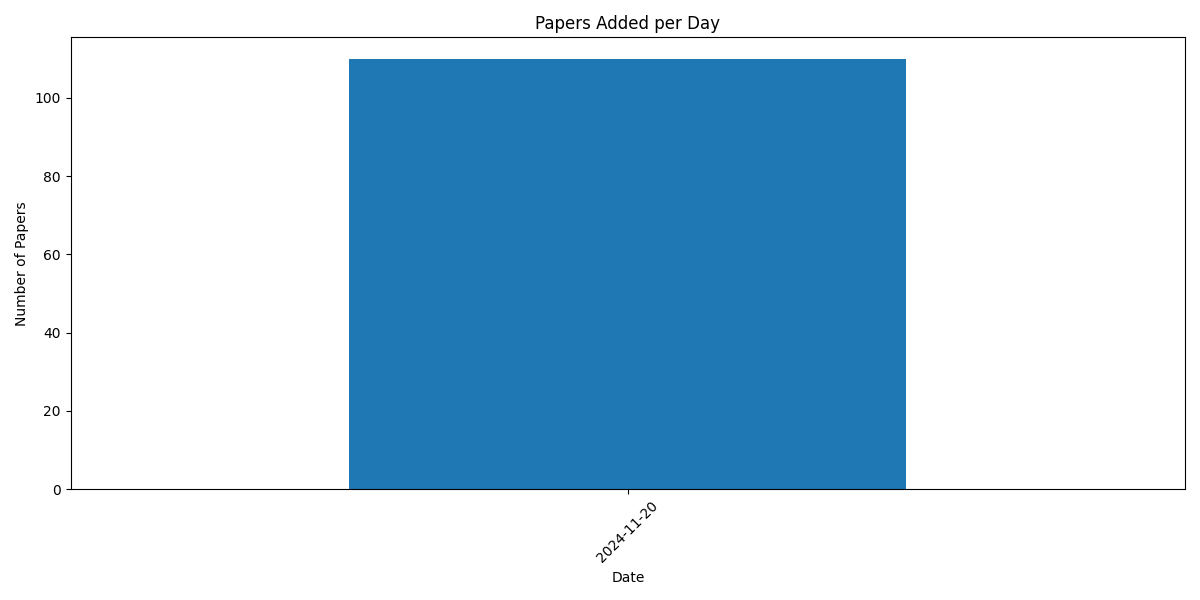
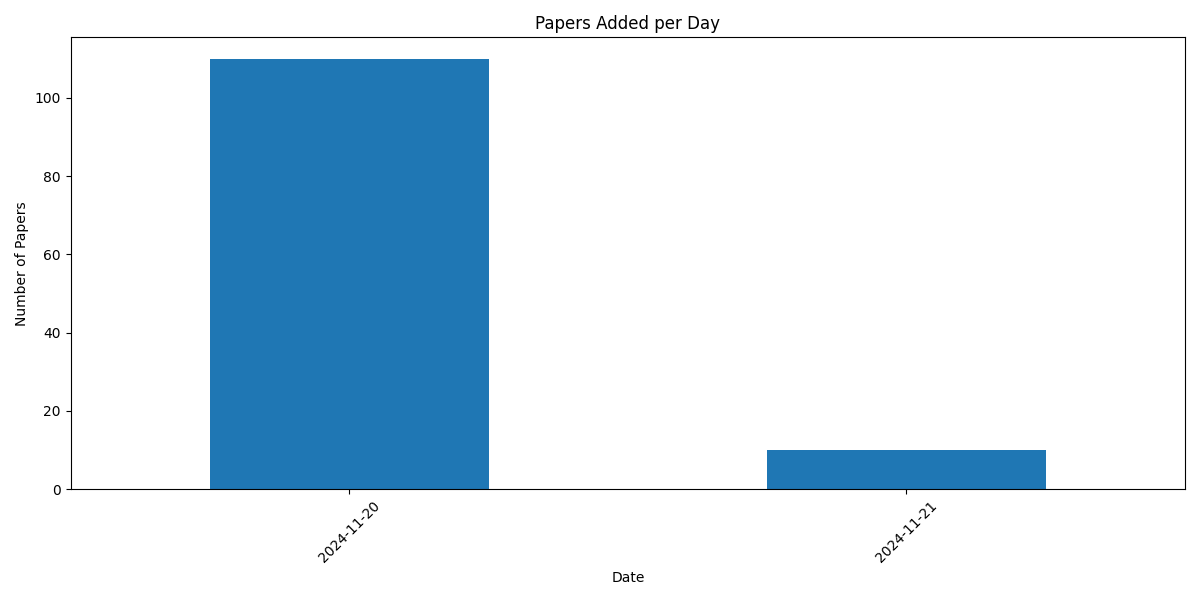
Update paper summaries and analytics - 2024-11-21 10:02:23

diff --git a/README.md b/README.md
@@ -2,7 +2,7 @@
 
 This repository contains summaries of the latest AI research papers, automatically updated daily using Ollama LLM.
 
-*Last Updated: 2024-11-20 10:19:22*
+*Last Updated: 2024-11-21 10:02:23*
 
 ## Paper Analytics
 
@@ -14,7 +14,245 @@ This repository contains summaries of the latest AI research papers, automatical
 
 ## Table of Contents
 
+- [2024-11-21](#20241121)
 - [2024-11-20](#20241120)
+
+---
+
+## <a name="20241121"></a>Papers Added on 2024-11-21
+
+### [AdaptAgent: Adapting Multimodal Web Agents with Few-Shot Learning from Human Demonstrations](http://arxiv.org/pdf/2411.13451v1)
+
+State-of-the-art multimodal web agents, powered by Multimodal Large Language
+Models (MLLMs), can autonomously execute many web tasks by processing user
+instructions and interacting with graphical user interfaces (GUIs). Current
+strategies for building web agents rely on (i) the generalizability of
+underlying MLLMs and their steerability via prompting, and (ii) large-scale
+fine-tuning of MLLMs on web-related tasks. However, web agents still struggle
+to automate tasks on unseen websites and domains, limiting their applicability
+to enterprise-specific and proprietary platforms. Beyond generalization from
+large-scale pre-training and fine-tuning, we propose building agents for
+few-shot adaptability using human demonstrations. We introduce the AdaptAgent
+framework that enables both proprietary and open-weights multimodal web agents
+to adapt to new websites and domains using few human demonstrations (up to 2).
+Our experiments on two popular benchmarks -- Mind2Web & VisualWebArena -- show
+that using in-context demonstrations (for proprietary models) or
+meta-adaptation demonstrations (for meta-learned open-weights models) boosts
+task success rate by 3.36% to 7.21% over non-adapted state-of-the-art models,
+corresponding to a relative increase of 21.03% to 65.75%. Furthermore, our
+additional analyses (a) show the effectiveness of multimodal demonstrations
+over text-only ones, (b) shed light on the influence of different data
+selection strategies during meta-learning on the generalization of the agent,
+and (c) demonstrate the effect of number of few-shot examples on the web
+agent's success rate. Overall, our results unlock a complementary axis for
+developing widely applicable multimodal web agents beyond large-scale
+pre-training and fine-tuning, emphasizing few-shot adaptability.
+
+---
+
+### [Advancing Complex Medical Communication in Arabic with Sporo AraSum: Surpassing Existing Large Language Models](http://arxiv.org/pdf/2411.13518v1)
+
+The increasing demand for multilingual capabilities in healthcare underscores
+the need for AI models adept at processing diverse languages, particularly in
+clinical documentation and decision-making. Arabic, with its complex
+morphology, syntax, and diglossia, poses unique challenges for natural language
+processing (NLP) in medical contexts. This case study evaluates Sporo AraSum, a
+language model tailored for Arabic clinical documentation, against JAIS, the
+leading Arabic NLP model. Using synthetic datasets and modified PDQI-9 metrics
+modified ourselves for the purposes of assessing model performances in a
+different language. The study assessed the models' performance in summarizing
+patient-physician interactions, focusing on accuracy, comprehensiveness,
+clinical utility, and linguistic-cultural competence.
+  Results indicate that Sporo AraSum significantly outperforms JAIS in
+AI-centric quantitative metrics and all qualitative attributes measured in our
+modified version of the PDQI-9. AraSum's architecture enables precise and
+culturally sensitive documentation, addressing the linguistic nuances of Arabic
+while mitigating risks of AI hallucinations. These findings suggest that Sporo
+AraSum is better suited to meet the demands of Arabic-speaking healthcare
+environments, offering a transformative solution for multilingual clinical
+workflows. Future research should incorporate real-world data to further
+validate these findings and explore broader integration into healthcare
+systems.
+
+---
+
+### [BALROG: Benchmarking Agentic LLM and VLM Reasoning On Games](http://arxiv.org/pdf/2411.13543v1)
+
+Large Language Models (LLMs) and Vision Language Models (VLMs) possess
+extensive knowledge and exhibit promising reasoning abilities; however, they
+still struggle to perform well in complex, dynamic environments. Real-world
+tasks require handling intricate interactions, advanced spatial reasoning,
+long-term planning, and continuous exploration of new strategies-areas in which
+we lack effective methodologies for comprehensively evaluating these
+capabilities. To address this gap, we introduce BALROG, a novel benchmark
+designed to assess the agentic capabilities of LLMs and VLMs through a diverse
+set of challenging games. Our benchmark incorporates a range of existing
+reinforcement learning environments with varying levels of difficulty,
+including tasks that are solvable by non-expert humans in seconds to extremely
+challenging ones that may take years to master (e.g., the NetHack Learning
+Environment). We devise fine-grained metrics to measure performance and conduct
+an extensive evaluation of several popular open-source and closed-source LLMs
+and VLMs. Our findings indicate that while current models achieve partial
+success in the easier games, they struggle significantly with more challenging
+tasks. Notably, we observe severe deficiencies in vision-based decision-making,
+as models perform worse when visual representations of the environments are
+provided. We release BALROG as an open and user-friendly benchmark to
+facilitate future research and development in the agentic community.
+
+---
+
+### [Disentangling Memory and Reasoning Ability in Large Language Models](http://arxiv.org/pdf/2411.13504v1)
+
+Large Language Models (LLMs) have demonstrated strong performance in handling
+complex tasks requiring both extensive knowledge and reasoning abilities.
+However, the existing LLM inference pipeline operates as an opaque process
+without explicit separation between knowledge retrieval and reasoning steps,
+making the model's decision-making process unclear and disorganized. This
+ambiguity can lead to issues such as hallucinations and knowledge forgetting,
+which significantly impact the reliability of LLMs in high-stakes domains. In
+this paper, we propose a new inference paradigm that decomposes the complex
+inference process into two distinct and clear actions: (1) memory recall: which
+retrieves relevant knowledge, and (2) reasoning: which performs logical steps
+based on the recalled knowledge. To facilitate this decomposition, we introduce
+two special tokens memory and reason, guiding the model to distinguish between
+steps that require knowledge retrieval and those that involve reasoning. Our
+experiment results show that this decomposition not only improves model
+performance but also enhances the interpretability of the inference process,
+enabling users to identify sources of error and refine model responses
+effectively. The code is available at
+https://github.com/MingyuJ666/Disentangling-Memory-and-Reasoning.
+
+---
+
+### [Metacognition for Unknown Situations and Environments (MUSE)](http://arxiv.org/pdf/2411.13537v1)
+
+Metacognition--the awareness and regulation of one's cognitive processes--is
+central to human adaptability in unknown situations. In contrast, current
+autonomous agents often struggle in novel environments due to their limited
+capacity for adaptation. We hypothesize that metacognition is a critical
+missing ingredient in adaptive autonomous systems, equipping them with the
+cognitive flexibility needed to tackle unfamiliar challenges. Given the broad
+scope of metacognitive abilities, we focus on two key aspects: competence
+awareness and strategy selection for novel tasks. To this end, we propose the
+Metacognition for Unknown Situations and Environments (MUSE) framework, which
+integrates metacognitive processes--specifically self-awareness and
+self-regulation--into autonomous agents. We present two initial implementations
+of MUSE: one based on world modeling and another leveraging large language
+models (LLMs), both instantiating the metacognitive cycle. Our system
+continuously learns to assess its competence on a given task and uses this
+self-awareness to guide iterative cycles of strategy selection. MUSE agents
+show significant improvements in self-awareness and self-regulation, enabling
+them to solve novel, out-of-distribution tasks more effectively compared to
+Dreamer-v3-based reinforcement learning and purely prompt-based LLM agent
+approaches. This work highlights the promise of approaches inspired by
+cognitive and neural systems in enabling autonomous systems to adapt to new
+environments, overcoming the limitations of current methods that rely heavily
+on extensive training data.
+
+---
+
+### [PatentEdits: Framing Patent Novelty as Textual Entailment](http://arxiv.org/pdf/2411.13477v1)
+
+A patent must be deemed novel and non-obvious in order to be granted by the
+US Patent Office (USPTO). If it is not, a US patent examiner will cite the
+prior work, or prior art, that invalidates the novelty and issue a non-final
+rejection. Predicting what claims of the invention should change given the
+prior art is an essential and crucial step in securing invention rights, yet
+has not been studied before as a learnable task. In this work we introduce the
+PatentEdits dataset, which contains 105K examples of successful revisions that
+overcome objections to novelty. We design algorithms to label edits sentence by
+sentence, then establish how well these edits can be predicted with large
+language models (LLMs). We demonstrate that evaluating textual entailment
+between cited references and draft sentences is especially effective in
+predicting which inventive claims remained unchanged or are novel in relation
+to prior art.
+
+---
+
+### [SoK: A Systems Perspective on Compound AI Threats and Countermeasures](http://arxiv.org/pdf/2411.13459v1)
+
+Large language models (LLMs) used across enterprises often use proprietary
+models and operate on sensitive inputs and data. The wide range of attack
+vectors identified in prior research - targeting various software and hardware
+components used in training and inference - makes it extremely challenging to
+enforce confidentiality and integrity policies.
+  As we advance towards constructing compound AI inference pipelines that
+integrate multiple large language models (LLMs), the attack surfaces expand
+significantly. Attackers now focus on the AI algorithms as well as the software
+and hardware components associated with these systems. While current research
+often examines these elements in isolation, we find that combining cross-layer
+attack observations can enable powerful end-to-end attacks with minimal
+assumptions about the threat model. Given, the sheer number of existing attacks
+at each layer, we need a holistic and systemized understanding of different
+attack vectors at each layer.
+  This SoK discusses different software and hardware attacks applicable to
+compound AI systems and demonstrates how combining multiple attack mechanisms
+can reduce the threat model assumptions required for an isolated attack. Next,
+we systematize the ML attacks in lines with the Mitre Att&ck framework to
+better position each attack based on the threat model. Finally, we outline the
+existing countermeasures for both software and hardware layers and discuss the
+necessity of a comprehensive defense strategy to enable the secure and
+high-performance deployment of compound AI systems.
+
+---
+
+### [SpecTool: A Benchmark for Characterizing Errors in Tool-Use LLMs](http://arxiv.org/pdf/2411.13547v1)
+
+Evaluating the output of Large Language Models (LLMs) is one of the most
+critical aspects of building a performant compound AI system. Since the output
+from LLMs propagate to downstream steps, identifying LLM errors is crucial to
+system performance. A common task for LLMs in AI systems is tool use. While
+there are several benchmark environments for evaluating LLMs on this task, they
+typically only give a success rate without any explanation of the failure
+cases. To solve this problem, we introduce SpecTool, a new benchmark to
+identify error patterns in LLM output on tool-use tasks. Our benchmark data set
+comprises of queries from diverse environments that can be used to test for the
+presence of seven newly characterized error patterns. Using SPECTOOL , we show
+that even the most prominent LLMs exhibit these error patterns in their
+outputs. Researchers can use the analysis and insights from SPECTOOL to guide
+their error mitigation strategies.
+
+---
+
+### [Utilizing Large Language Models to Synthesize Product Desirability Datasets](http://arxiv.org/pdf/2411.13485v1)
+
+This research explores the application of large language models (LLMs) to
+generate synthetic datasets for Product Desirability Toolkit (PDT) testing, a
+key component in evaluating user sentiment and product experience. Utilizing
+gpt-4o-mini, a cost-effective alternative to larger commercial LLMs, three
+methods, Word+Review, Review+Word, and Supply-Word, were each used to
+synthesize 1000 product reviews. The generated datasets were assessed for
+sentiment alignment, textual diversity, and data generation cost. Results
+demonstrated high sentiment alignment across all methods, with Pearson
+correlations ranging from 0.93 to 0.97. Supply-Word exhibited the highest
+diversity and coverage of PDT terms, although with increased generation costs.
+Despite minor biases toward positive sentiments, in situations with limited
+test data, LLM-generated synthetic data offers significant advantages,
+including scalability, cost savings, and flexibility in dataset production.
+
+---
+
+### [When Precision Meets Position: BFloat16 Breaks Down RoPE in Long-Context Training](http://arxiv.org/pdf/2411.13476v1)
+
+Extending context window sizes allows large language models (LLMs) to process
+longer sequences and handle more complex tasks. Rotary Positional Embedding
+(RoPE) has become the de facto standard due to its relative positional encoding
+properties that benefit long-context training. However, we observe that using
+RoPE with BFloat16 format results in numerical issues, causing it to deviate
+from its intended relative positional encoding, especially in long-context
+scenarios. This issue arises from BFloat16's limited precision and accumulates
+as context length increases, with the first token contributing significantly to
+this problem. To address this, we develop AnchorAttention, a plug-and-play
+attention method that alleviates numerical issues caused by BFloat16, improves
+long-context capabilities, and speeds up training. AnchorAttention reduces
+unnecessary attention computations, maintains semantic coherence, and boosts
+computational efficiency by treating the first token as a shared anchor with a
+consistent position ID, making it visible to all documents within the training
+context. Experiments on three types of LLMs demonstrate that AnchorAttention
+significantly improves long-context performance and reduces training time by
+over 50\% compared to standard full attention mechanisms, while preserving the
+original LLM's capabilities on general tasks. Our code is available at
+https://github.com/haonan3/AnchorContext.
 
 ---
 
